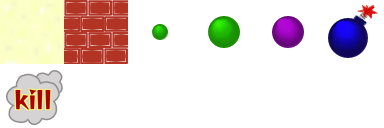
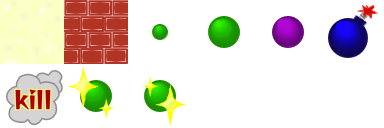
add effect of power item

Changed region(s): [[0.1562, 0.5312, 0.3125, 0.9375], [0.375, 0.5938, 0.5, 0.9688]]

diff --git a/public/js/game/power_item.js b/public/js/game/power_item.js
@@ -3,7 +3,18 @@ function initPowerItem(game, type = 'power'){
     var item = new Sprite(pixel, pixel);
     item.image = game.assets[itemImg];
 
-    if (type === 'invincible' || type === 'power') {
+    if (type === 'power') {
+        item.frame = [
+            3, 3, 3, 3, 3, 3, 3, 3, 3, 3, 3, 3, 3, 3, 3, 3,
+            3, 3, 3, 3, 3, 3, 3, 3, 3, 3, 3, 3, 3, 3, 3, 3,
+            3, 3, 3, 3, 3, 3, 3, 3, 3, 3, 3, 3, 3, 3, 3, 3,
+            3, 3, 3, 3, 3, 3, 3, 3, 3, 3, 3, 3, 3, 3, 3, 3,
+            3, 3, 3, 3, 3, 3, 3, 3, 3, 3, 3, 3, 3, 3, 3, 3,
+            3, 3, 3, 3, 3, 3, 3, 3, 3, 3, 3, 3, 3, 3, 3, 3,
+            7, 7, 7, 7, 7, 8, 8, 8, 8, 8,
+            7, 7, 7, 7, 7, 8, 8, 8, 8, 8, 7, 7, 7, 7, 7
+        ];
+    } else if (type === 'invincible') {
         item.frame = 3;
     } else if (type === 'bomb') {
         item.frame = 5;

diff --git a/public/js/game/top.js b/public/js/game/top.js
@@ -1,5 +1,6 @@
 class TopPage {
     constructor (game) {
+        console.log(game);
         this.game = game;
         this.scene = new Scene();
         this.enabled = false;
